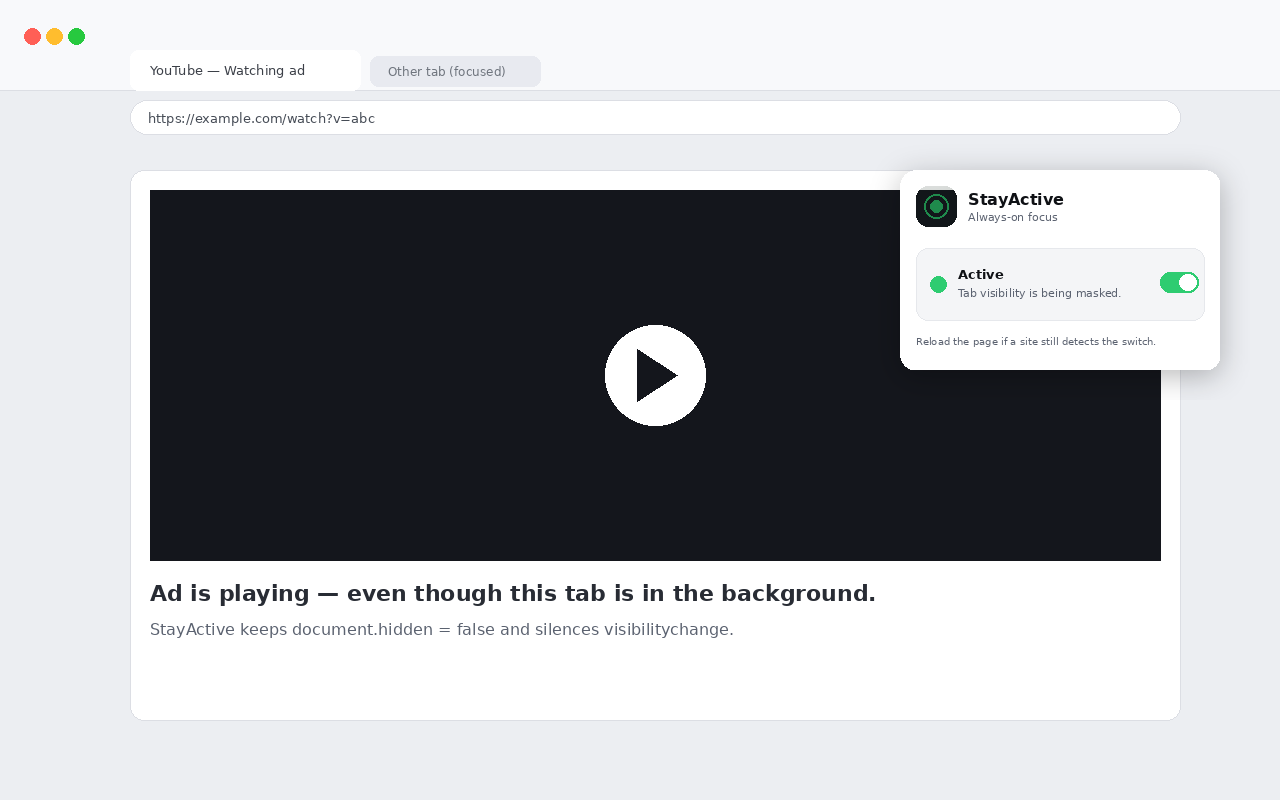
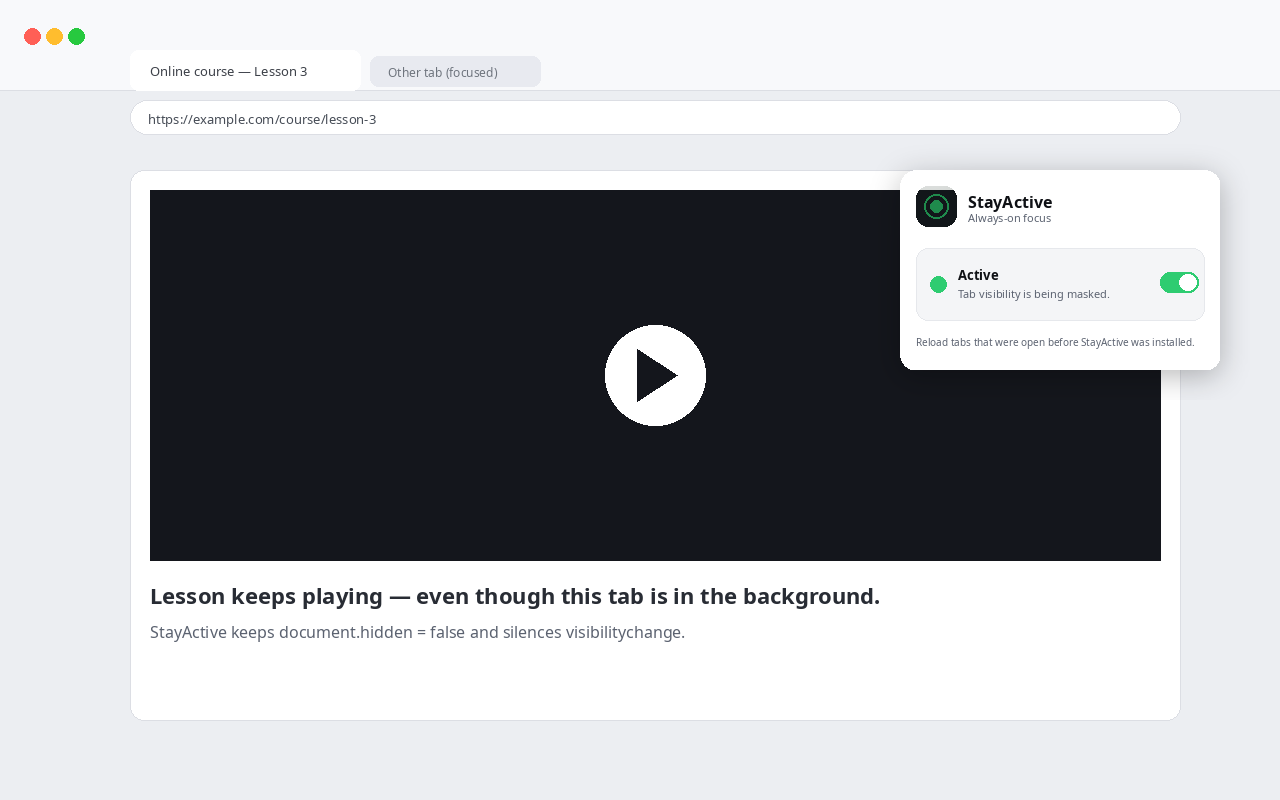
Fix event blocking that broke sites; drop ad wording from store listing
- Only block blur/focusout/visibilitychange targeted at window/document,
  so form fields and React onBlur keep working.
- Stop blocking pagehide and freeze, which sites need to save state.
- Drop the addEventListener override and on* neutralization: a capture
  listener registered first is enough and is fully reversible on toggle.
- Patch native prototypes via Proxy and remove window globals, making the
  extension harder to detect.
- Store listing and screenshot: remove ad mentions, describe actual scope.

diff --git a/inject.js b/inject.js
@@ -1,138 +1,70 @@
 (() => {
-  if (window.__focusTabInstalled) return;
-  window.__focusTabInstalled = true;
-
   const STATE = { enabled: true };
-  window.__focusTabState = STATE;
 
-  const docProto = Object.getPrototypeOf(document) || Document.prototype;
+  // Patch the prototype that natively owns the property, so the page sees
+  // no extra own properties on document or HTMLDocument.prototype.
+  const findOwner = (prop) => {
+    for (let o = document; o; o = Object.getPrototypeOf(o)) {
+      if (Object.prototype.hasOwnProperty.call(o, prop)) return o;
+    }
+    return null;
+  };
 
-  const realHasFocus = document.hasFocus.bind(document);
-  const realHiddenDesc =
-    Object.getOwnPropertyDescriptor(docProto, "hidden") ||
-    Object.getOwnPropertyDescriptor(Document.prototype, "hidden");
-  const realVisibilityDesc =
-    Object.getOwnPropertyDescriptor(docProto, "visibilityState") ||
-    Object.getOwnPropertyDescriptor(Document.prototype, "visibilityState");
-  const realWebkitHiddenDesc =
-    Object.getOwnPropertyDescriptor(docProto, "webkitHidden") ||
-    Object.getOwnPropertyDescriptor(Document.prototype, "webkitHidden");
-  const realWebkitVisibilityDesc =
-    Object.getOwnPropertyDescriptor(docProto, "webkitVisibilityState") ||
-    Object.getOwnPropertyDescriptor(Document.prototype, "webkitVisibilityState");
-
-  try {
-    Object.defineProperty(document, "hidden", {
-      configurable: true,
-      get() {
-        if (STATE.enabled) return false;
-        return realHiddenDesc ? realHiddenDesc.get.call(this) : false;
+  // A Proxy keeps the native name, length and toString() of the function.
+  const wrap = (fn, spoofed) =>
+    new Proxy(fn, {
+      apply(target, thisArg, args) {
+        if (STATE.enabled) return spoofed;
+        return Reflect.apply(target, thisArg, args);
       },
     });
-  } catch (_) {}
 
-  try {
-    Object.defineProperty(document, "visibilityState", {
-      configurable: true,
-      get() {
-        if (STATE.enabled) return "visible";
-        return realVisibilityDesc ? realVisibilityDesc.get.call(this) : "visible";
-      },
-    });
-  } catch (_) {}
+  const spoofGetter = (prop, spoofed) => {
+    const owner = findOwner(prop);
+    if (!owner) return;
+    const desc = Object.getOwnPropertyDescriptor(owner, prop);
+    if (!desc.get) return;
+    try {
+      Object.defineProperty(owner, prop, { ...desc, get: wrap(desc.get, spoofed) });
+    } catch (_) {}
+  };
 
-  try {
-    Object.defineProperty(document, "webkitHidden", {
-      configurable: true,
-      get() {
-        if (STATE.enabled) return false;
-        return realWebkitHiddenDesc ? realWebkitHiddenDesc.get.call(this) : false;
-      },
-    });
-  } catch (_) {}
+  spoofGetter("hidden", false);
+  spoofGetter("visibilityState", "visible");
+  spoofGetter("webkitHidden", false);
+  spoofGetter("webkitVisibilityState", "visible");
 
-  try {
-    Object.defineProperty(document, "webkitVisibilityState", {
-      configurable: true,
-      get() {
-        if (STATE.enabled) return "visible";
-        return realWebkitVisibilityDesc
-          ? realWebkitVisibilityDesc.get.call(this)
-          : "visible";
-      },
-    });
-  } catch (_) {}
+  const focusOwner = findOwner("hasFocus");
+  if (focusOwner) {
+    try {
+      const desc = Object.getOwnPropertyDescriptor(focusOwner, "hasFocus");
+      Object.defineProperty(focusOwner, "hasFocus", { ...desc, value: wrap(desc.value, true) });
+    } catch (_) {}
+  }
 
-  try {
-    document.hasFocus = function () {
-      if (STATE.enabled) return true;
-      return realHasFocus();
-    };
-  } catch (_) {}
-
-  const BLOCKED_EVENTS = new Set([
+  const BLOCKED_EVENTS = [
     "visibilitychange",
     "webkitvisibilitychange",
     "blur",
     "focusout",
-    "pagehide",
-    "freeze",
-  ]);
+  ];
 
+  // Registered at document_start, before any page script, as a capture
+  // listener on window: it runs first for every event, so stopping it here
+  // also hides it from addEventListener listeners and on* handlers. Only
+  // events aimed at the window or the document are blocked; blur/focusout on
+  // form fields and other elements must keep working.
   const stopper = (e) => {
     if (!STATE.enabled) return;
-    if (BLOCKED_EVENTS.has(e.type)) {
-      e.stopImmediatePropagation();
-      e.stopPropagation();
-    }
+    if (e.target !== window && e.target !== document) return;
+    e.stopImmediatePropagation();
   };
 
   for (const evt of BLOCKED_EVENTS) {
     window.addEventListener(evt, stopper, true);
-    document.addEventListener(evt, stopper, true);
-  }
-
-  const origAdd = EventTarget.prototype.addEventListener;
-  EventTarget.prototype.addEventListener = function (type, listener, options) {
-    if (
-      STATE.enabled &&
-      typeof type === "string" &&
-      BLOCKED_EVENTS.has(type.toLowerCase()) &&
-      (this === window || this === document)
-    ) {
-      return;
-    }
-    return origAdd.call(this, type, listener, options);
-  };
-
-  const onPropsToNeutralize = ["onvisibilitychange", "onblur", "onpagehide"];
-  for (const prop of onPropsToNeutralize) {
-    try {
-      Object.defineProperty(document, prop, {
-        configurable: true,
-        get() {
-          return null;
-        },
-        set() {
-          /* swallow */
-        },
-      });
-    } catch (_) {}
-    try {
-      Object.defineProperty(window, prop, {
-        configurable: true,
-        get() {
-          return null;
-        },
-        set() {
-          /* swallow */
-        },
-      });
-    } catch (_) {}
   }
 
   window.addEventListener("__focusTabSetState", (e) => {
-    const next = e.detail && typeof e.detail.enabled === "boolean";
-    if (next) STATE.enabled = e.detail.enabled;
+    if (typeof e.detail === "boolean") STATE.enabled = e.detail;
   });
 })();

diff --git a/content.js b/content.js
@@ -1,7 +1,7 @@
 (async () => {
   const apply = (enabled) => {
     window.dispatchEvent(
-      new CustomEvent("__focusTabSetState", { detail: { enabled: !!enabled } })
+      new CustomEvent("__focusTabSetState", { detail: !!enabled })
     );
   };
 

diff --git a/store/generate_assets.py b/store/generate_assets.py
@@ -26,10 +26,14 @@ def font(size: int, bold: bool = False) -> ImageFont.FreeTypeFont:
     candidates_bold = [
         "/usr/share/fonts/truetype/dejavu/DejaVuSans-Bold.ttf",
         "/usr/share/fonts/truetype/liberation/LiberationSans-Bold.ttf",
+        "/usr/share/fonts/TTF/DejaVuSans-Bold.ttf",
+        "/usr/share/fonts/noto/NotoSans-Bold.ttf",
     ]
     candidates_regular = [
         "/usr/share/fonts/truetype/dejavu/DejaVuSans.ttf",
         "/usr/share/fonts/truetype/liberation/LiberationSans-Regular.ttf",
+        "/usr/share/fonts/TTF/DejaVuSans.ttf",
+        "/usr/share/fonts/noto/NotoSans-Regular.ttf",
     ]
     for path in candidates_bold if bold else candidates_regular:
         if os.path.exists(path):
@@ -166,13 +170,13 @@ def generate_screenshot() -> None:
         d.ellipse((24 + i * 22, 28, 40 + i * 22, 44), fill=color)
     # Tabs
     d.rounded_rectangle((130, 50, 360, 90), radius=8, fill=(255, 255, 255))
-    d.text((150, 62), "YouTube — Watching ad", fill=(60, 64, 72), font=font(13))
+    d.text((150, 62), "Online course — Lesson 3", fill=(60, 64, 72), font=font(13))
     d.rounded_rectangle((370, 56, 540, 86), radius=8, fill=(232, 234, 240))
     d.text((388, 64), "Other tab (focused)", fill=(110, 116, 125), font=font(12))
     # URL bar
     d.rounded_rectangle((130, 100, W - 100, 134), radius=18, fill=(255, 255, 255),
                         outline=(220, 222, 228))
-    d.text((148, 110), "https://example.com/watch?v=abc",
+    d.text((148, 110), "https://example.com/course/lesson-3",
            fill=(70, 76, 86), font=font(13))
 
     # Faux video card
@@ -184,7 +188,7 @@ def generate_screenshot() -> None:
               fill=(255, 255, 255, 220))
     d.polygon([(play_cx - 18, play_cy - 26), (play_cx - 18, play_cy + 26),
                (play_cx + 22, play_cy)], fill=(20, 22, 28))
-    d.text((150, 580), "Ad is playing — even though this tab is in the background.",
+    d.text((150, 580), "Lesson keeps playing — even though this tab is in the background.",
            fill=(40, 44, 52), font=font(22, bold=True))
     d.text((150, 620),
            "StayActive keeps document.hidden = false and silences visibilitychange.",
@@ -212,7 +216,7 @@ def generate_screenshot() -> None:
                          fill=ACCENT)
     pd.ellipse((popup_w - 41, 104, popup_w - 24, 120), fill=WHITE)
 
-    pd.text((16, 165), "Reload the page if a site still detects the switch.",
+    pd.text((16, 165), "Reload tabs that were open before StayActive was installed.",
             fill=FG_SOFT, font=font(10))
 
     popup = soft_shadow(popup)

diff --git a/store/listings/fr.md b/store/listings/fr.md
@@ -4,7 +4,7 @@
 StayActive
 
 ## Description courte (132 caractères max)
-Empêchez les sites de remarquer que vous avez quitté l'onglet. Les vidéos, pubs et minuteurs ne se mettent plus en pause.
+Empêchez les sites de remarquer que vous avez quitté l'onglet. Vos vidéos et cours ne se mettent plus en pause.
 
 ## Catégorie
 Productivité
@@ -17,8 +17,8 @@ StayActive fait croire aux sites web que l'onglet courant est toujours
 au premier plan, même quand vous passez sur un autre onglet ou une autre
 fenêtre.
 
-Certains sites mettent en pause les vidéos, les pubs ou les minuteurs dès
-que vous partez. StayActive contourne ce comportement en interceptant les
+Certains sites mettent en pause les vidéos, les cours en ligne ou les
+sessions en direct dès que vous partez. StayActive contourne ce comportement en interceptant les
 signaux que le navigateur transmet à la page (Page Visibility API, focus,
 blur).
 
@@ -30,8 +30,10 @@ Fonctionnalités
 
 Comment ça marche
 L'extension remplace document.hidden, document.visibilityState et
-document.hasFocus() et bloque les évènements visibilitychange / blur /
-pagehide pour que la page pense que l'onglet reste actif.
+document.hasFocus() et bloque les évènements visibilitychange et blur de
+la fenêtre pour que la page pense que l'onglet reste actif. Chrome peut
+toutefois continuer à ralentir les minuteurs et animations des onglets
+en arrière-plan.
 
 Confidentialité
 StayActive ne collecte, n'enregistre et ne transmet aucune donnée.
@@ -39,7 +41,7 @@ La seule chose stockée localement est votre préférence on/off.
 
 ## Mots-clés / tags
 onglet actif, anti-pause, lecture continue, focus onglet,
-pub en arrière-plan, page visibility, garder actif
+vidéo en arrière-plan, page visibility, garder actif
 
 ## Objectif unique (pour la revue Chrome Web Store)
 StayActive remplace l'API Page Visibility et les évènements focus/blur

diff --git a/store/listings/en.md b/store/listings/en.md
@@ -4,7 +4,7 @@
 StayActive
 
 ## Summary (short description, 132 chars max)
-Keep websites convinced your tab is always active. Ads, videos and timers won't pause when you switch tabs.
+Keep websites convinced your tab is always active. Videos and lessons won't pause when you switch tabs.
 
 ## Category
 Productivity
@@ -16,8 +16,8 @@ English
 StayActive keeps the current tab "in focus" from a website's point of view,
 even when you switch to another tab or window.
 
-Some sites pause videos, ads or timers as soon as you leave — StayActive
-prevents that by spoofing the Page Visibility API and focus events the
+Some sites pause videos, online lessons or live sessions as soon as you
+leave — StayActive prevents that by spoofing the Page Visibility API and focus events the
 browser exposes to the page.
 
 Features
@@ -28,8 +28,9 @@ Features
 
 How it works
 The extension overrides document.hidden, document.visibilityState,
-document.hasFocus() and silences visibilitychange / blur / pagehide events
-so the page believes the tab remains active.
+document.hasFocus() and silences the visibilitychange and window blur
+events so the page believes the tab remains active. Note that Chrome may
+still throttle timers and animations in background tabs.
 
 Privacy
 StayActive does not collect, store or transmit any data. The only thing
@@ -37,7 +38,7 @@ it saves locally is your on/off preference.
 
 ## Keywords / tags
 tab focus, page visibility, prevent pause, background tab, keep active,
-no pause, always on, always active, ads keep playing
+no pause, always on, always active, keep playing
 
 ## Single purpose statement (for store review)
 StayActive overrides the Page Visibility API and focus/blur events

diff --git a/store/README.md b/store/README.md
@@ -45,7 +45,7 @@ ready to publish via GitHub Pages.
 
 1. Push this repository to GitHub.
 2. In the repo settings: **Settings → Pages**.
-3. Under **Source**, select branch `main` and folder `/docs`.
+3. Under **Source**, select branch `master` and folder `/docs`.
 4. Save. After a minute the page will be live at:
 
    ```
